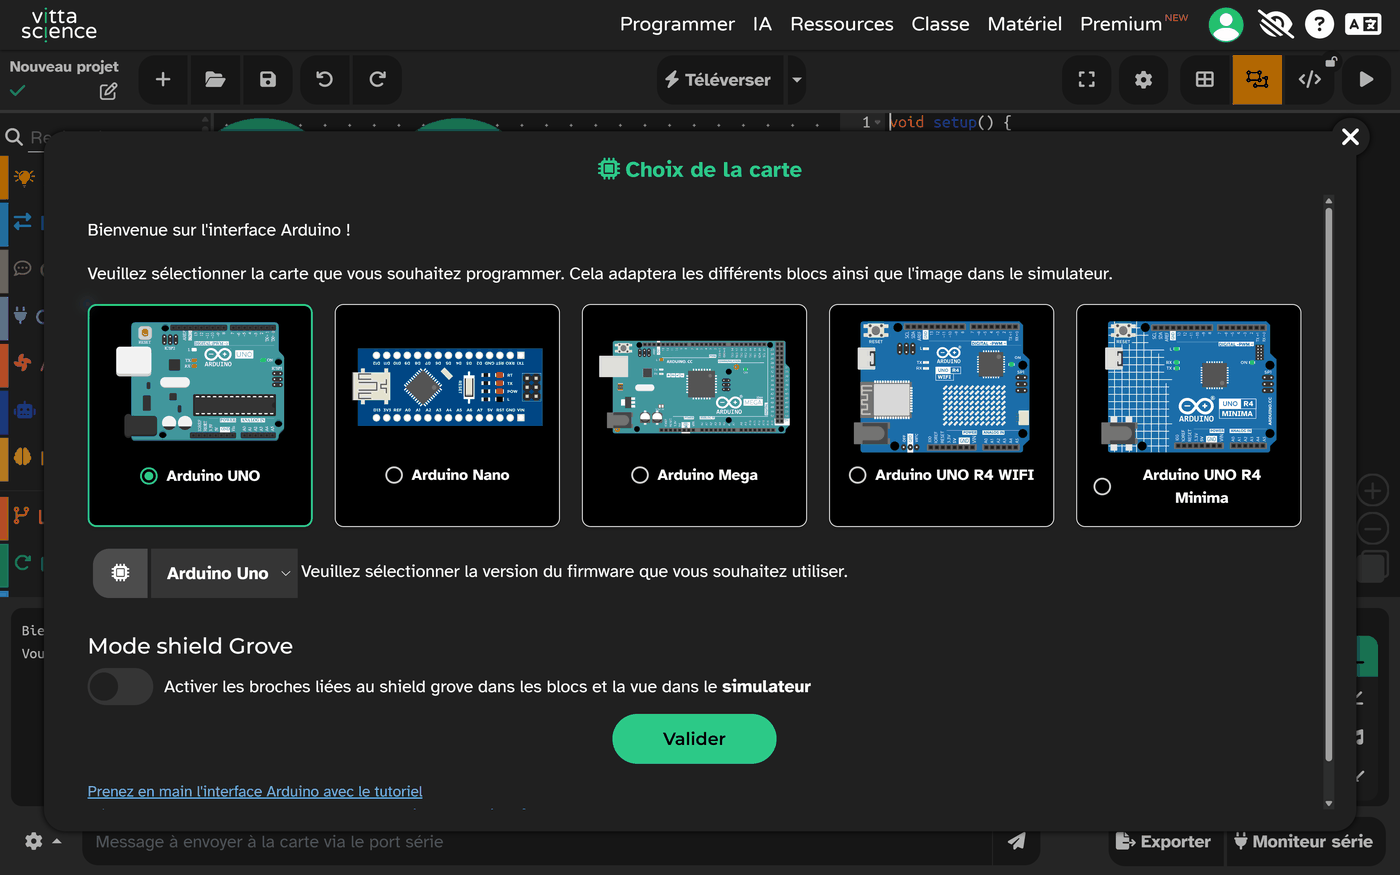
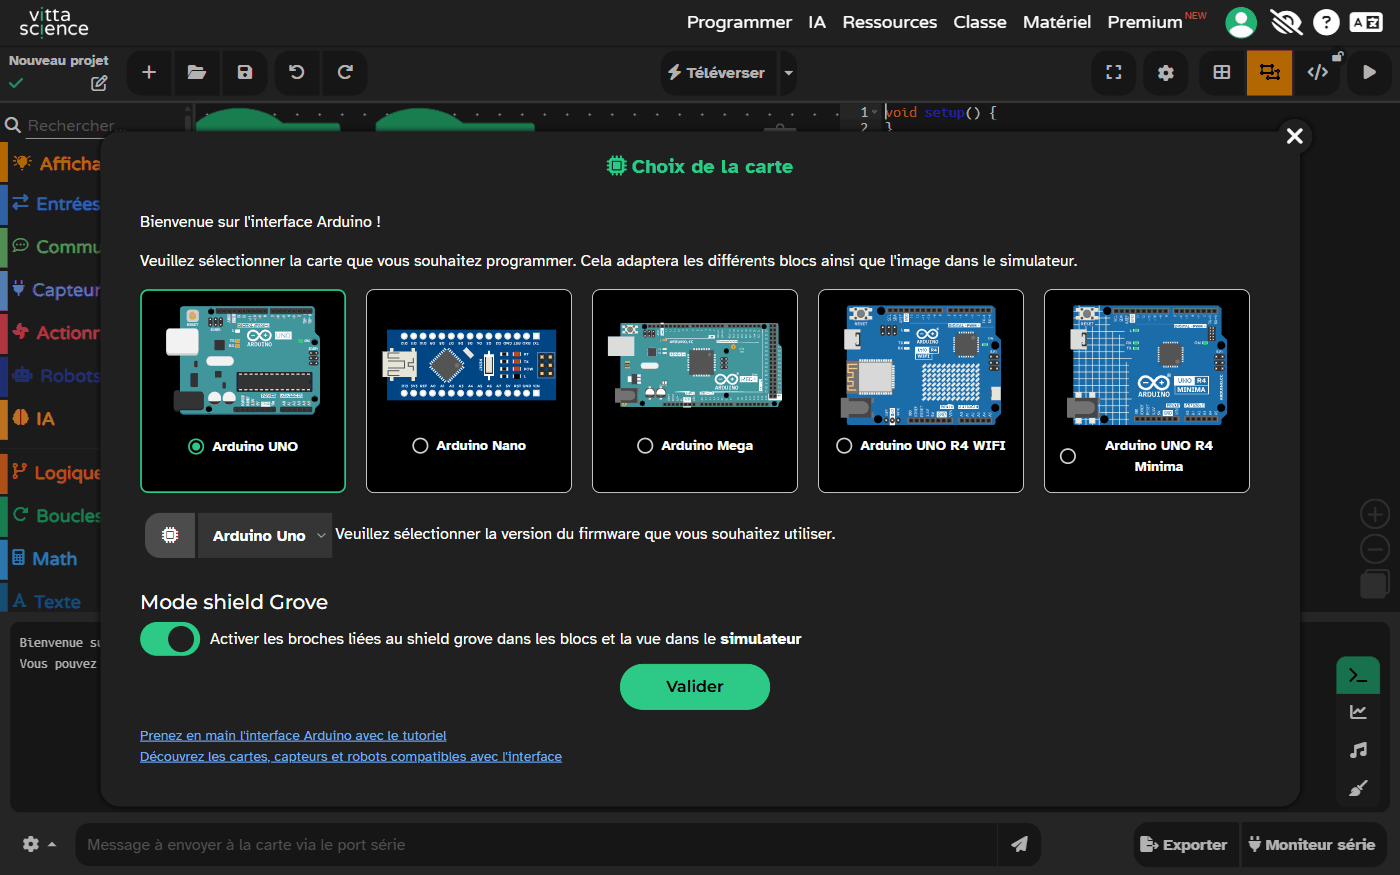
3e_C9.2 : cinq retouches des gestes de Vittascience (shield Grove, fenêtre de carte, console, nom du .ino)
Vérifié sur Chrome 154 sans compte, données du site vidées : le .ino téléchargé revient en blocs ;
la fenêtre « Choix de la carte » s'affiche à chaque ouverture ; « Mode shield Grove » ne change pas
les blocs mais montre au simulateur les prises Grove de la consigne (D3 à D7, A1). Geste 1 : allumer
le mode shield Grove (capture reprise), le compte garde le projet en ligne, plus de « Si ».
Geste 4 : console en simulation, Moniteur série seulement avec la carte. Geste 5 : chiffres ajoutés
au nom du fichier.

diff --git a/theme-3-creation-conception-realisation-innovations/C9-concevoir-ecrire-tester-et-mettre-au-point/3e/3e_C9.2/sequence_3e_C9.2-C8.3_station_2_programmer.html b/theme-3-creation-conception-realisation-innovations/C9-concevoir-ecrire-tester-et-mettre-au-point/3e/3e_C9.2/sequence_3e_C9.2-C8.3_station_2_programmer.html
@@ -408,11 +408,11 @@
   Et si c'est la première fois, tout est écrit ici. <i>(Les intitulés exacts des menus peuvent
   varier légèrement selon la version du site — au moindre doute, demande au professeur.)</i></p>
   <ol>
-    <li><b>Ouvrir la bonne interface.</b> Va sur <a href="https://fr.vittascience.com/arduino/" target="_blank" rel="noopener">fr.vittascience.com/arduino</a> et vérifie deux choses : l'interface <b>Arduino</b>, et la bascule sur <b>BLOCS</b> (et non CODE). Connecte-toi avec le compte de la classe si le professeur te le demande — c'est ce qui permet d'enregistrer. Si Vittascience te demande la carte, choisis Arduino UNO.
+    <li><b>Ouvrir la bonne interface.</b> Va sur <a href="https://fr.vittascience.com/arduino/" target="_blank" rel="noopener">fr.vittascience.com/arduino</a> et vérifie deux choses : l'interface <b>Arduino</b>, et la bascule sur <b>BLOCS</b> (et non CODE). Connecte-toi avec le compte de la classe si le professeur te le demande — il garde ton projet en ligne pendant la séance&nbsp;; ta copie à toi, c'est le geste 5. Vittascience te demande la carte&nbsp;: choisis Arduino UNO, et allume «&nbsp;Mode shield Grove&nbsp;».
       <figure class="geste-capture">
         <img src="Images/geste_vitta_1_ouvrir_choix_carte.png" width="1400" height="875" loading="lazy"
-             alt="Fenêtre « Choix de la carte » de Vittascience, en thème sombre, posée sur l'interface Arduino. Le titre dit « Bienvenue sur l'interface Arduino ! » et demande de sélectionner la carte à programmer. Cinq cartes sont proposées : Arduino UNO, déjà sélectionnée (case cochée, cadre vert), Arduino Nano, Arduino Mega, Arduino UNO R4 WIFI et Arduino UNO R4 Minima. Dessous : une liste « Arduino Uno » pour la version du firmware, un interrupteur « Mode shield Grove » éteint, et un bouton vert « Valider ».">
-        <figcaption><b>Ce que tu dois voir&nbsp;:</b> la fenêtre « Choix de la carte », avec <b>Arduino UNO</b> cochée. <b>Puis&nbsp;:</b> clique <b>Valider</b>. <i>Cette fenêtre peut s'afficher chaque fois que tu ouvres la page&nbsp;; ce n'est pas une erreur.</i></figcaption>
+             alt="Fenêtre « Choix de la carte » de Vittascience, en thème sombre, posée sur l'interface Arduino. Le titre dit « Bienvenue sur l'interface Arduino ! » et demande de sélectionner la carte à programmer. Cinq cartes sont proposées : Arduino UNO, déjà sélectionnée (case cochée, cadre vert), Arduino Nano, Arduino Mega, Arduino UNO R4 WIFI et Arduino UNO R4 Minima. Dessous : une liste « Arduino Uno » pour la version du firmware, un interrupteur « Mode shield Grove » allumé (vert), suivi de « Activer les broches liées au shield grove dans les blocs et la vue dans le simulateur », et un bouton vert « Valider ».">
+        <figcaption><b>Ce que tu dois voir&nbsp;:</b> la fenêtre « Choix de la carte », avec <b>Arduino UNO</b> cochée et <b>Mode shield Grove</b> allumé, en vert. <b>Puis&nbsp;:</b> clique <b>Valider</b>. <i>Cette fenêtre s'affiche chaque fois que tu ouvres la page&nbsp;; ce n'est pas une erreur.</i></figcaption>
       </figure>
     
       <figure class="geste-capture">
@@ -477,7 +477,7 @@
         <figcaption><b>Comment savoir que c'est fait&nbsp;:</b> ton nom de projet apparaît en haut à gauche, avec une coche verte. Il est coupé à l'écran mais il est entier&nbsp;: c'est lui qui nommera ton fichier au geste 5.</figcaption>
       </figure>
     </li>
-    <li><b>Simuler, puis (si tu as la carte) téléverser.</b> Le <b>simulateur</b> intégré fait tourner ton programme <b>sans aucun matériel</b> : tu tournes le capteur rotatif à la souris et tu vois les voyants réagir. Le <b>moniteur</b> affiche ce que ton programme raconte. En version 🅰 seulement, le bouton de téléversement envoie ensuite le programme dans la vraie carte — après avoir vérifié la carte et le port.
+    <li><b>Simuler, puis (si tu as la carte) téléverser.</b> Le <b>simulateur</b> intégré fait tourner ton programme <b>sans aucun matériel</b> : tu tournes le capteur rotatif à la souris et tu vois les voyants réagir. En simulation, ce que ton programme écrit s'affiche dans la console. Le bouton «&nbsp;Moniteur série&nbsp;» sert seulement avec la vraie carte branchée&nbsp;: en simulation, il arrête tout. En version 🅰 seulement, le bouton de téléversement envoie ensuite le programme dans la vraie carte — après avoir vérifié la carte et le port.
       <figure class="geste-capture">
         <img src="Images/geste_vitta_4_simuler_programme.png" width="1400" height="875" loading="lazy"
              alt="Interface en mode blocs avec un petit programme d'essai. « Au démarrage » contient « initialiser la communication série à 9600 bauds ». « Répéter indéfiniment » contient « écrire dans la console “Bonjour” avec 1 saut(s) de ligne », puis « attendre 1000 milliseconde(s) ». La console du bas n'affiche que le message de bienvenue. Le bouton triangle en haut à droite est le bouton qui démarre le simulateur.">
@@ -496,7 +496,7 @@
         <figcaption><b>Ce que tu dois voir&nbsp;:</b> «&nbsp;Compilation réussie.&nbsp;» en vert, puis «&nbsp;Téléversement du programme…&nbsp;». Sans carte branchée, le navigateur affiche ensuite une fenêtre qui dit «&nbsp;Aucun appareil compatible détecté&nbsp;»&nbsp;: clique <b>Annuler</b>. <i>Les 4714 octets sont un exemple.</i></figcaption>
       </figure>
     </li>
-    <li><b>Sortir.</b> Le compte de la classe est partagé&nbsp;: il ne garde pas ton travail. Dans Vittascience, clique la <b>disquette</b> («&nbsp;Sauvegarder le projet&nbsp;»), puis <b>Télécharger</b>&nbsp;: un fichier <code>.ino</code> au nom de ton projet arrive dans <b>Téléchargements</b>. <b>Déplace-le</b> dans <b>Documents</b>, dans <b>le dossier de ta classe (exemple&nbsp;: 3E1)</b>. Si ce dossier n'existe pas encore, crée-le d'abord&nbsp;: dans Documents, <b>Nouveau → Dossier</b>, tape le nom de ta classe, puis valide.
+    <li><b>Sortir.</b> Le compte de la classe est partagé&nbsp;: il ne garde pas ton travail. Dans Vittascience, clique la <b>disquette</b> («&nbsp;Sauvegarder le projet&nbsp;»), puis <b>Télécharger</b>&nbsp;: un fichier <code>.ino</code> au nom de ton projet arrive dans <b>Téléchargements</b>. Vittascience ajoute des chiffres à la fin du nom du fichier&nbsp;: c'est normal. <b>Déplace-le</b> dans <b>Documents</b>, dans <b>le dossier de ta classe (exemple&nbsp;: 3E1)</b>. Si ce dossier n'existe pas encore, crée-le d'abord&nbsp;: dans Documents, <b>Nouveau → Dossier</b>, tape le nom de ta classe, puis valide.
       <figure class="geste-capture">
         <img src="Images/geste_vitta_5_sortir_telecharger.png" width="1400" height="875" loading="lazy"
              alt="Fenêtre « Sauvegarder le projet » de Vittascience. Le champ « Nom du projet » contient 3e-STATION-palier1-DUPONT. Dessous : une description facultative, un bandeau bleu sur le partage avec la communauté, un interrupteur « Publier son projet pour toute la communauté » éteint, trois boutons « Sauvegarder », « Sauvegarder sous … » et « Partager », puis, sous le mot « ou », un bouton vert « Télécharger » avec un point d'interrogation. Une infobulle « Fermer le modal » est visible près de la croix en haut à droite.">

diff --git a/theme-3-creation-conception-realisation-innovations/C9-concevoir-ecrire-tester-et-mettre-au-point/3e/3e_C9.2/sequence_3e_C9.2-C8.3_station_alerte_cyclonique.html b/theme-3-creation-conception-realisation-innovations/C9-concevoir-ecrire-tester-et-mettre-au-point/3e/3e_C9.2/sequence_3e_C9.2-C8.3_station_alerte_cyclonique.html
@@ -824,11 +824,11 @@
   Et si c'est la première fois, tout est écrit ici. <i>(Les intitulés exacts des menus peuvent
   varier légèrement selon la version du site — au moindre doute, demande au professeur.)</i></p>
   <ol>
-    <li><b>Ouvrir la bonne interface.</b> Va sur <a href="https://fr.vittascience.com/arduino/" target="_blank" rel="noopener">fr.vittascience.com/arduino</a> et vérifie deux choses : l'interface <b>Arduino</b>, et la bascule sur <b>BLOCS</b> (et non CODE). Connecte-toi avec le compte de la classe si le professeur te le demande — c'est ce qui permet d'enregistrer. Si Vittascience te demande la carte, choisis Arduino UNO.
+    <li><b>Ouvrir la bonne interface.</b> Va sur <a href="https://fr.vittascience.com/arduino/" target="_blank" rel="noopener">fr.vittascience.com/arduino</a> et vérifie deux choses : l'interface <b>Arduino</b>, et la bascule sur <b>BLOCS</b> (et non CODE). Connecte-toi avec le compte de la classe si le professeur te le demande — il garde ton projet en ligne pendant la séance&nbsp;; ta copie à toi, c'est le geste 5. Vittascience te demande la carte&nbsp;: choisis Arduino UNO, et allume «&nbsp;Mode shield Grove&nbsp;».
       <figure class="geste-capture">
         <img src="Images/geste_vitta_1_ouvrir_choix_carte.png" width="1400" height="875" loading="lazy"
-             alt="Fenêtre « Choix de la carte » de Vittascience, en thème sombre, posée sur l'interface Arduino. Le titre dit « Bienvenue sur l'interface Arduino ! » et demande de sélectionner la carte à programmer. Cinq cartes sont proposées : Arduino UNO, déjà sélectionnée (case cochée, cadre vert), Arduino Nano, Arduino Mega, Arduino UNO R4 WIFI et Arduino UNO R4 Minima. Dessous : une liste « Arduino Uno » pour la version du firmware, un interrupteur « Mode shield Grove » éteint, et un bouton vert « Valider ».">
-        <figcaption><b>Ce que tu dois voir&nbsp;:</b> la fenêtre « Choix de la carte », avec <b>Arduino UNO</b> cochée. <b>Puis&nbsp;:</b> clique <b>Valider</b>. <i>Cette fenêtre peut s'afficher chaque fois que tu ouvres la page&nbsp;; ce n'est pas une erreur.</i></figcaption>
+             alt="Fenêtre « Choix de la carte » de Vittascience, en thème sombre, posée sur l'interface Arduino. Le titre dit « Bienvenue sur l'interface Arduino ! » et demande de sélectionner la carte à programmer. Cinq cartes sont proposées : Arduino UNO, déjà sélectionnée (case cochée, cadre vert), Arduino Nano, Arduino Mega, Arduino UNO R4 WIFI et Arduino UNO R4 Minima. Dessous : une liste « Arduino Uno » pour la version du firmware, un interrupteur « Mode shield Grove » allumé (vert), suivi de « Activer les broches liées au shield grove dans les blocs et la vue dans le simulateur », et un bouton vert « Valider ».">
+        <figcaption><b>Ce que tu dois voir&nbsp;:</b> la fenêtre « Choix de la carte », avec <b>Arduino UNO</b> cochée et <b>Mode shield Grove</b> allumé, en vert. <b>Puis&nbsp;:</b> clique <b>Valider</b>. <i>Cette fenêtre s'affiche chaque fois que tu ouvres la page&nbsp;; ce n'est pas une erreur.</i></figcaption>
       </figure>
     
       <figure class="geste-capture">
@@ -893,7 +893,7 @@
         <figcaption><b>Comment savoir que c'est fait&nbsp;:</b> ton nom de projet apparaît en haut à gauche, avec une coche verte. Il est coupé à l'écran mais il est entier&nbsp;: c'est lui qui nommera ton fichier au geste 5.</figcaption>
       </figure>
     </li>
-    <li><b>Simuler, puis (si tu as la carte) téléverser.</b> Le <b>simulateur</b> intégré fait tourner ton programme <b>sans aucun matériel</b> : tu tournes le capteur rotatif à la souris et tu vois les voyants réagir. Le <b>moniteur</b> affiche ce que ton programme raconte. En version 🅰 seulement, le bouton de téléversement envoie ensuite le programme dans la vraie carte — après avoir vérifié la carte et le port.
+    <li><b>Simuler, puis (si tu as la carte) téléverser.</b> Le <b>simulateur</b> intégré fait tourner ton programme <b>sans aucun matériel</b> : tu tournes le capteur rotatif à la souris et tu vois les voyants réagir. En simulation, ce que ton programme écrit s'affiche dans la console. Le bouton «&nbsp;Moniteur série&nbsp;» sert seulement avec la vraie carte branchée&nbsp;: en simulation, il arrête tout. En version 🅰 seulement, le bouton de téléversement envoie ensuite le programme dans la vraie carte — après avoir vérifié la carte et le port.
       <figure class="geste-capture">
         <img src="Images/geste_vitta_4_simuler_programme.png" width="1400" height="875" loading="lazy"
              alt="Interface en mode blocs avec un petit programme d'essai. « Au démarrage » contient « initialiser la communication série à 9600 bauds ». « Répéter indéfiniment » contient « écrire dans la console “Bonjour” avec 1 saut(s) de ligne », puis « attendre 1000 milliseconde(s) ». La console du bas n'affiche que le message de bienvenue. Le bouton triangle en haut à droite est le bouton qui démarre le simulateur.">
@@ -912,7 +912,7 @@
         <figcaption><b>Ce que tu dois voir&nbsp;:</b> «&nbsp;Compilation réussie.&nbsp;» en vert, puis «&nbsp;Téléversement du programme…&nbsp;». Sans carte branchée, le navigateur affiche ensuite une fenêtre qui dit «&nbsp;Aucun appareil compatible détecté&nbsp;»&nbsp;: clique <b>Annuler</b>. <i>Les 4714 octets sont un exemple.</i></figcaption>
       </figure>
     </li>
-    <li><b>Sortir.</b> Le compte de la classe est partagé&nbsp;: il ne garde pas ton travail. Dans Vittascience, clique la <b>disquette</b> («&nbsp;Sauvegarder le projet&nbsp;»), puis <b>Télécharger</b>&nbsp;: un fichier <code>.ino</code> au nom de ton projet arrive dans <b>Téléchargements</b>. <b>Déplace-le</b> dans <b>Documents</b>, dans <b>le dossier de ta classe (exemple&nbsp;: 3E1)</b>. Si ce dossier n'existe pas encore, crée-le d'abord&nbsp;: dans Documents, <b>Nouveau → Dossier</b>, tape le nom de ta classe, puis valide.
+    <li><b>Sortir.</b> Le compte de la classe est partagé&nbsp;: il ne garde pas ton travail. Dans Vittascience, clique la <b>disquette</b> («&nbsp;Sauvegarder le projet&nbsp;»), puis <b>Télécharger</b>&nbsp;: un fichier <code>.ino</code> au nom de ton projet arrive dans <b>Téléchargements</b>. Vittascience ajoute des chiffres à la fin du nom du fichier&nbsp;: c'est normal. <b>Déplace-le</b> dans <b>Documents</b>, dans <b>le dossier de ta classe (exemple&nbsp;: 3E1)</b>. Si ce dossier n'existe pas encore, crée-le d'abord&nbsp;: dans Documents, <b>Nouveau → Dossier</b>, tape le nom de ta classe, puis valide.
       <figure class="geste-capture">
         <img src="Images/geste_vitta_5_sortir_telecharger.png" width="1400" height="875" loading="lazy"
              alt="Fenêtre « Sauvegarder le projet » de Vittascience. Le champ « Nom du projet » contient 3e-STATION-palier1-DUPONT. Dessous : une description facultative, un bandeau bleu sur le partage avec la communauté, un interrupteur « Publier son projet pour toute la communauté » éteint, trois boutons « Sauvegarder », « Sauvegarder sous … » et « Partager », puis, sous le mot « ou », un bouton vert « Télécharger » avec un point d'interrogation. Une infobulle « Fermer le modal » est visible près de la croix en haut à droite.">

diff --git a/JOURNAL_DES_DECISIONS.md b/JOURNAL_DES_DECISIONS.md
@@ -21346,3 +21346,33 @@ défilement horizontal) · au navigateur, 1280 px et 390 px, sur les deux pages 
 corbeille de Windows, volet de navigation de l'Explorateur remis. **Restent côté Pascal :** un projet
 `3e-STATION-palier1-DUPONT` a pu être créé dans le compte de test de la classe (à supprimer) ; la vue de `Documents` a gardé un
 tri par date (l'ordre d'avant était par nom).
+
+## 04/10/2026 — 3e_C9.2 : cinq retouches des gestes de Vittascience, après #466
+
+**Vérifié avant d'écrire** (Chrome 154 piloté par Playwright, données du site vidées, sans compte) :
+
+- **Le `.ino` téléchargé revient en blocs.** Le fichier d'essai du lot #466, repris dans la corbeille,
+  ouvert par *Ouvrir → Depuis votre appareil* : la page passe d'elle-même en mode blocs, avec le nom du
+  projet et les huit blocs d'origine. Le fichier embarque le XML Blockly (« Mode: blocks ») en tête de
+  commentaire. Le geste 5 reste donc tel quel.
+- **La fenêtre « Choix de la carte » s'affiche à chaque ouverture** de `fr.vittascience.com/arduino/`
+  (6 sur 6). Elle ne s'affiche pas si l'adresse porte déjà `?board=uno` : ce n'est pas le lien donné
+  aux élèves. Le « Si » est retiré.
+- **« Mode shield Grove » ne change rien aux blocs** : les listes de broches des 132 champs relevés sont
+  identiques interrupteur éteint et allumé. Il change le **simulateur**, qui montre alors le shield Grove
+  et ses prises étiquetées — A0 à A3, D2 à D8, I2C, UART —, donc les prises de la consigne (D3 à D7, A1).
+  Le geste 1 dit désormais de l'allumer, et sa capture est reprise, interrupteur allumé.
+
+**Retouches** (formulations de Pascal) : le compte de la classe « garde ton projet en ligne pendant la
+séance ; ta copie à toi, c'est le geste 5 » ; la console en simulation et le bouton « Moniteur série »,
+qui ne sert qu'avec la vraie carte ; les chiffres ajoutés à la fin du nom du fichier. Les deux pages
+(station 2 et page complète) portent le même texte.
+
+**À reprendre** quand leurs gestes passeront en captures : ces formulations valent aussi pour 4e_C6.2,
+3e_C9.1, 5e_C9.1 et 4e_C9.1. `controle_gestes_outil.py` reste rouge sur ces deux pages, comme sur main
+(il n'accepte que « quatre » ou « cinq » gestes) : il sera corrigé en premier commit du thème 2.
+
+### Vérifié
+
+`controle_liens`, `controle_medias`, `controle_hierarchie`, `controle_debordement` verts ;
+`controle_gestes_outil` : les deux mêmes refus qu'avant le lot.

diff --git a/theme-3-creation-conception-realisation-innovations/C9-concevoir-ecrire-tester-et-mettre-au-point/3e/3e_C9.2/SOURCES_MEDIAS.md b/theme-3-creation-conception-realisation-innovations/C9-concevoir-ecrire-tester-et-mettre-au-point/3e/3e_C9.2/SOURCES_MEDIAS.md
@@ -126,7 +126,7 @@ Explorateur Windows, sans aucune retouche (n°127) :
 
 | Fichier | Nature | Origine | Licence | Usage | Poids |
 |---|---|---|---|---|---|
-| `Images/geste_vitta_1_ouvrir_choix_carte.png` | **Capture d'écran réelle** (règle n°94) | Vittascience (page seule), Chrome 154 à profil vierge, poste de Pascal, 03/10/2026, compte de test de la classe | CC0 | Geste 1 — Ouvrir : la fenêtre « Choix de la carte » | 119 Ko |
+| `Images/geste_vitta_1_ouvrir_choix_carte.png` | **Capture d'écran réelle** (règle n°94) | Vittascience (page seule), Chrome 154 piloté par Playwright, données du site vidées, **sans compte**, thème sombre, échelle 1, poste de Pascal, 04/10/2026 — reprise : « Mode shield Grove » allumé | CC0 | Geste 1 — Ouvrir : la fenêtre « Choix de la carte », Arduino UNO et shield Grove | 63 Ko |
 | `Images/geste_vitta_1b_ouvrir_interface.png` | **Capture d'écran réelle** (règle n°94) | Vittascience (page seule), Chrome 154 à profil vierge, poste de Pascal, 03/10/2026, compte de test de la classe | CC0 | Geste 1 — l'interface arrivée, mode hybride | 83 Ko |
 | `Images/geste_vitta_1c_ouvrir_bascule_blocs.png` | **Capture d'écran réelle** (règle n°94) | Vittascience (page seule), Chrome 154 à profil vierge, poste de Pascal, 03/10/2026, compte de test de la classe | CC0 | Geste 1 — après le clic sur « Mode blocs » | 86 Ko |
 | `Images/geste_vitta_1d_ouvrir_erreur_mode_code.png` | **Capture d'écran réelle** (règle n°94) | Vittascience (page seule), Chrome 154 à profil vierge, poste de Pascal, 03/10/2026, compte de test de la classe | CC0 | Geste 1 — l'erreur typique : le mode code | 50 Ko |
